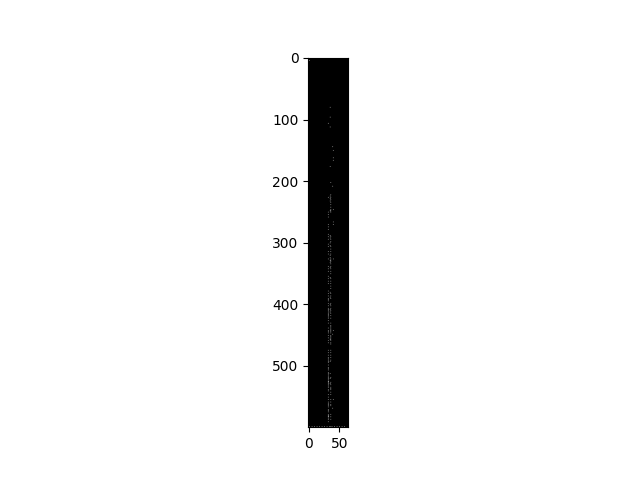
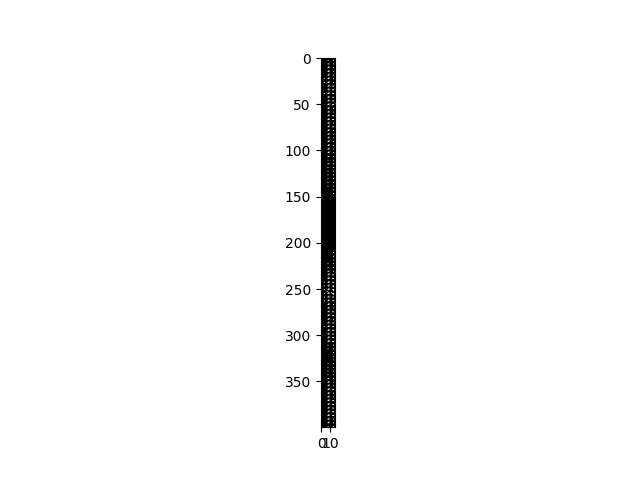
fixed post proc

Changed region(s): [[0.4062, 0.0938, 0.5625, 0.9375]]

diff --git a/generate_midi.py b/generate_midi.py
@@ -6,12 +6,16 @@ import matplotlib.pyplot as plt
 import postprocessing
 import numpy as np
 
-songLength = 600
+songLength = 400
+midiNotes = 16
+resolution = 5
+noterange = 16
+
 
 def make_generator_model():
     model = tf.keras.Sequential()
     y = int(songLength/4)
-    x = int(config.MIDI_NOTE_RANGE/4)
+    x = int(midiNotes/4)
     model.add(layers.Dense(x*y*256, use_bias=False, input_shape=(100,)))
     model.add(layers.BatchNormalization())
     model.add(layers.LeakyReLU())
@@ -19,25 +23,25 @@ def make_generator_model():
     model.add(layers.Reshape((y, x, 256)))
     # assert model.output_shape == (None, 7, 7, 256)  # Note: None is the batch size
 
-    model.add(layers.Conv2DTranspose(128, (5, 5), strides=(1, 1), padding='same', use_bias=False))
+    model.add(layers.Conv2DTranspose(128, (5,noterange), strides=(1, 1), padding='same', use_bias=False))
     # assert model.output_shape == (None, 7, 7, 128)
     model.add(layers.BatchNormalization())
     model.add(layers.LeakyReLU())
 
-    model.add(layers.Conv2DTranspose(32, (5, 5), strides=(2, 2), padding='same', use_bias=False))
+    model.add(layers.Conv2DTranspose(32, (5, noterange), strides=(2, 2), padding='same', use_bias=False))
     # assert model.output_shape == (None, songLength/2, midiNotes/2, 64)
     model.add(layers.BatchNormalization())
     model.add(layers.LeakyReLU())
 
     model.add(layers.Conv2DTranspose(1, (5, 5), strides=(2, 2), padding='same', use_bias=False, activation='tanh'))
     print(model.output_shape)
-    assert model.output_shape == (None, songLength,config.MIDI_NOTE_RANGE, 1)
+    assert model.output_shape == (None, songLength,midiNotes, 1)
 
     return model
 
 model = make_generator_model()
 
-model_path = "models/generator_50.h5"
+model_path = "models/gan_100_generator.h5"
 model.load_weights(model_path)
 
 
@@ -55,17 +59,17 @@ for i in range(n):
     for i in range(len(img)):
         for j in range(len(img[i])):
             # print(img[i][j])
-            img[i][j] = 1 if img[i][j] > -0.82 else 0
+            img[i][j] = 1 if img[i][j] > 0.1 else 0
             if j > cutoff or i < 3:
                 img[i][j] = 0
     vec.append(img)
 
-vec = np.array(vec).reshape(n*songLength, 64)
+vec = np.array(vec).reshape(n*songLength, 16)
 
 plt.imshow(vec, cmap='gray')
 plt.savefig('output.png')
 plt.show()
 
-# print(vec.shape)
-# midi = postprocessing.vecToMidi(vec)
-# midi.save("generated.mid")
+print(vec.shape)
+midi = postprocessing.vecToMidi(vec)
+midi.save("generated2.mid")
